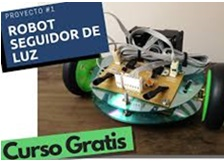
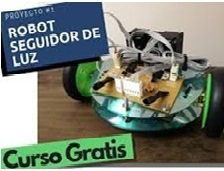
cambie la imagen del home y arregle un poco los estilos

diff --git a/Cursos/grails-app/assets/stylesheets/main2.css b/Cursos/grails-app/assets/stylesheets/main2.css
@@ -1,5 +1,5 @@
 /* Header */
-#head { background:#181015 url( ../images/bg_header.jpg) no-repeat; background-size: cover; min-height:520px; text-align: center; padding-top:240px; color:white; font-family:"Open sans", Helvetica, Arial; font-weight:300; }
+#head { background:#181015 url( ../images/3.jpg) no-repeat; background-size: cover; min-height:520px; text-align: center; padding-top:240px; color:white; font-family:"Open sans", Helvetica, Arial; font-weight:300; }
 #head.secondary { height:100px; min-height: 100px; padding-top:0px; }
 	#head .lead { font-family:"Open sans", Helvetica, Arial; font-size:44px; margin-bottom:6px; color:white; line-height:1.15em; } 
 	#head .tagline { color:rgba(255,255,255,0.75); margin-bottom:25px; }
